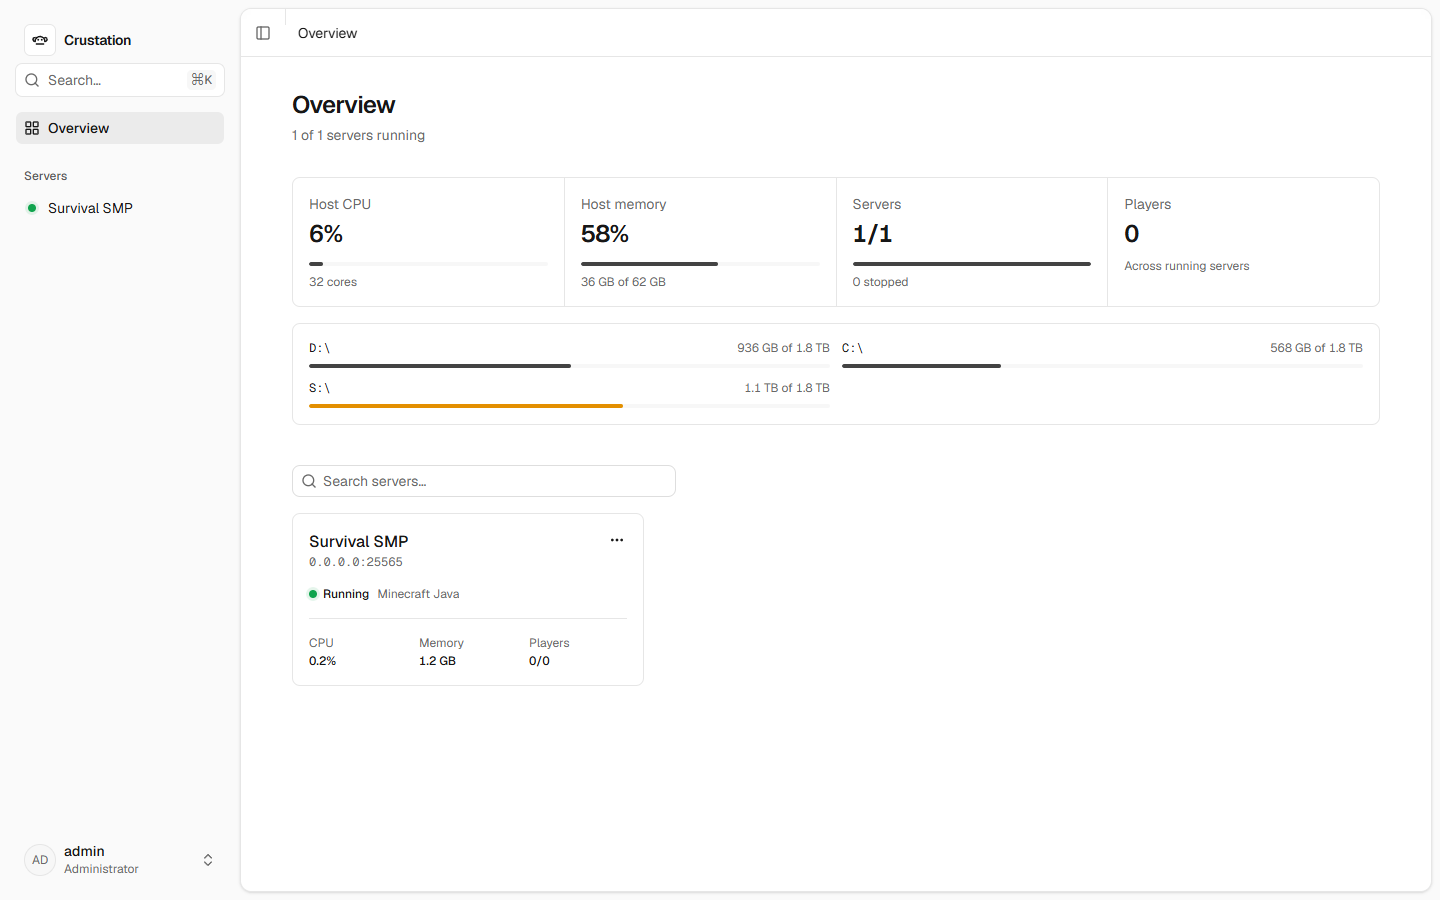
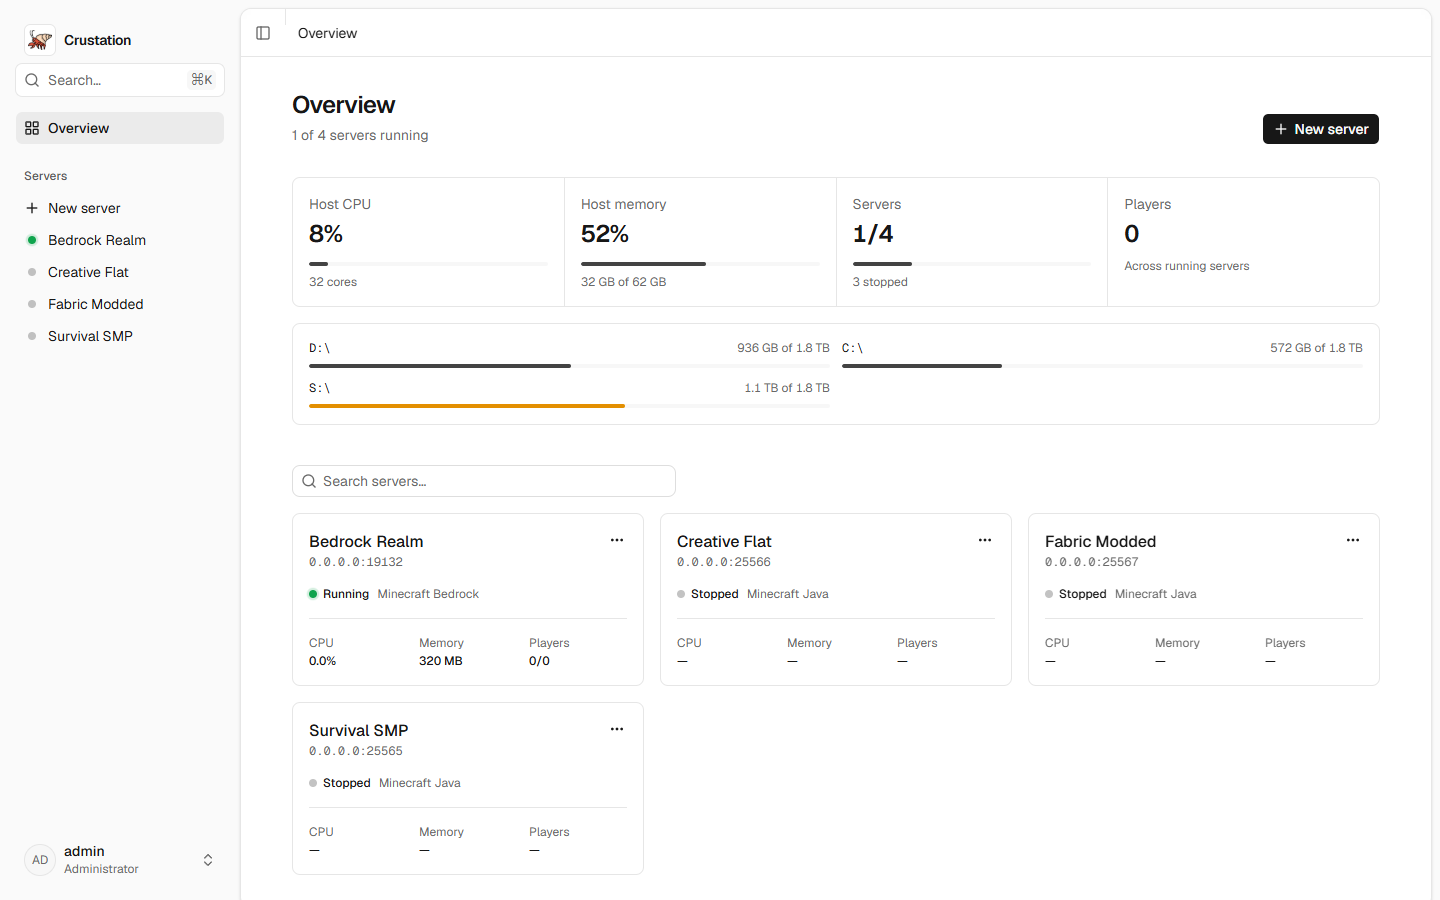
Rewrite the README for someone deciding whether to run this
Lead with what it does and what works today, as lists rather than a paragraph
of prose. Split installing from first sign-in, because finding the generated
password was the step with no obvious answer. Move the source tree down to a
contributing section with the checks CI runs.

Say plainly at the top that the code is written with AI against decisions I
make, and what stops that being prompt-and-ship. Anyone running this on their
own hardware should be told.

Retake the screenshots: the logo changed to the hermit crab, the overview
gained a New server button, and the old shots had a single server and one
stale path in them. Add the creation wizard.

diff --git a/README.md b/README.md
@@ -1,27 +1,34 @@
 # Crustation
 
-A control panel for game servers. One Rust binary supervises the server processes and serves a
-Svelte web interface. Crab, Rust, shells — the name wrote itself.
+Run your Minecraft servers from a web page. One Rust binary supervises the servers and serves the
+interface, so there is one container to deploy and one SQLite file to back up.
 
-**Status: early.** Sign-in, the server list, start/stop/restart/kill, a live console you can type
-into, host and per-process stats, and the Docker and Unraid packaging all work. You can create a
-server from the interface: Vanilla, Paper, Purpur, Fabric, NeoForge and Bedrock download and set
-themselves up on a JVM and GC flags that suit the version, or you can import one you already have
-from a zip, a folder or a link. Files, backups, schedules, users and webhooks do not exist yet.
-[docs/ROADMAP.md](docs/ROADMAP.md) tracks the order I'm building them in.
+Crab, Rust, shells. The name wrote itself.
+
+> **Built with AI, directed by a human.** Most of the code here is written by an AI assistant
+> working to decisions I make: the architecture, the API contract in [docs/API.md](docs/API.md),
+> and the order of work in [docs/ROADMAP.md](docs/ROADMAP.md). I review what lands.
+>
+> This is not prompt-and-ship. Nothing merges that fails `cargo fmt`, `clippy -D warnings`, the
+> test suite or the interface build, and features are exercised against a running panel before
+> they go out. It runs on your hardware, so you should know how it was made.
 
 ![Overview](docs/screenshots/overview.png)
 
-![Console](docs/screenshots/console.png)
+## What works today
 
-## Why another one
+- **Create a server** from Vanilla, Paper, Purpur, Fabric, NeoForge or Bedrock. Crustation
+  downloads it, accepts the EULA, sets the port and picks a Java version that suits it.
+- **Import a server** you already have, from a zip, a folder on the host, or a download link.
+- **Start, stop, restart and kill**, with crash detection and restart on boot.
+- **A live console** you can type into. Commands go over RCON when a Java server has it set up.
+- **Stats** for the host and for each server process, with history.
+- **Users, roles and API keys**, with per-server permissions.
 
-[Crafty Controller](https://gitlab.com/crafty-controller/crafty-4) has the right idea and I ran it
-for a while. Crustation is my take on the same tool with different foundations: one binary and one
-SQLite file to deploy, an API built for a single-page interface, and a WebSocket that re-checks
-permissions on every event it sends.
+Not there yet: files, backups, schedules, player lists, webhooks, and the screens for managing
+users. [docs/ROADMAP.md](docs/ROADMAP.md) has the order they are coming in.
 
-## Running it
+## Install
 
 ### Docker
 
@@ -36,22 +43,20 @@ docker run -d --name crustation \
 ```
 
 `docker-compose.yml` does the same thing. The image carries Java 8, 11, 17, 21 and 25, and each
-server is started on whichever of them its version asks for.
-
-On first start the panel creates an administrator. Set `CRUSTATION_ADMIN_USERNAME` and
-`CRUSTATION_ADMIN_PASSWORD`, or let it generate a password into `config/first-login.txt`. Then open
-<http://localhost:8080>.
+server starts on whichever one its version asks for.
 
 ### Unraid
 
-The Unraid template lives in
-[juddisjudd/unraid-templates](https://github.com/juddisjudd/unraid-templates), which is the
-repository Community Applications already indexes. Add it through **Docker → Add Container →
-Template URL** with
-<https://raw.githubusercontent.com/juddisjudd/unraid-templates/main/templates/crustation.xml>, or
-add that repository under **Community Applications → Additional Repositories**. It maps config,
-servers and backups as three shares and honours `PUID` / `PGID`, so files stay owned by your Unraid
-user instead of root.
+The template lives in
+[juddisjudd/unraid-templates](https://github.com/juddisjudd/unraid-templates), the repository
+Community Applications already indexes. Two ways to add it:
+
+- **Docker → Add Container → Template URL**, then paste
+  <https://raw.githubusercontent.com/juddisjudd/unraid-templates/main/templates/crustation.xml>
+- **Community Applications → Additional Repositories**, then add that repository
+
+It maps config, servers and backups as three shares and honours `PUID` and `PGID`, so files stay
+owned by your Unraid user rather than root.
 
 ### From source
 
@@ -60,13 +65,27 @@ cd web && pnpm install && pnpm build && cd ..
 cargo run --release
 ```
 
-Data lands in `./config`, `./servers` and `./backups`. For interface work run `pnpm dev` in `web/`;
-the Vite server proxies the API and WebSocket to the panel on port 8080.
+Data lands in `./config`, `./servers` and `./backups`. For interface work, run `pnpm dev` in
+`web/`; Vite proxies the API and the WebSocket to the panel on port 8080.
+
+## First sign-in
+
+Open <http://localhost:8080>. The panel creates an administrator the first time it starts.
+
+Set `CRUSTATION_ADMIN_USERNAME` and `CRUSTATION_ADMIN_PASSWORD` to choose your own. Otherwise
+Crustation generates a password and writes it to `config/first-login.txt`. Change it after signing
+in, then delete that file.
+
+![Creating a server](docs/screenshots/new-server.png)
+
+![A server](docs/screenshots/server.png)
+
+![Console](docs/screenshots/console.png)
 
 ## Configuration
 
 `config/crustation.toml` appears on first start and can be edited. Environment variables override
-it, which is how the container is configured:
+it, which is how the container is configured.
 
 | Variable | Meaning |
 | --- | --- |
@@ -76,7 +95,14 @@ it, which is how the container is configured:
 | `CRUSTATION_ADMIN_USERNAME`, `CRUSTATION_ADMIN_PASSWORD` | First administrator |
 | `CRUSTATION_LOG` | Log filter, for example `debug` |
 
-## Layout
+## Why another one
+
+[Crafty Controller](https://gitlab.com/crafty-controller/crafty-4) has the right idea and I ran it
+for a while. Crustation is the same tool on different foundations: one binary and one SQLite file
+to deploy, an API built for a single-page interface, and a WebSocket that re-checks permissions on
+every event it sends.
+
+## Contributing
 
 ```
 src/            the panel: http, auth, supervisor, providers, installs, stats, events
@@ -89,6 +115,13 @@ docs/           architecture, API contract, roadmap
 [docs/ARCHITECTURE.md](docs/ARCHITECTURE.md) covers how the pieces fit together.
 [docs/API.md](docs/API.md) is the contract between the panel and the interface; change one side
 without the other and things break quietly.
+
+Before opening a pull request:
+
+```bash
+cargo fmt --check && cargo clippy --all-targets -- -D warnings && cargo test
+cd web && pnpm check && pnpm lint && pnpm build
+```
 
 ## Licence
 
